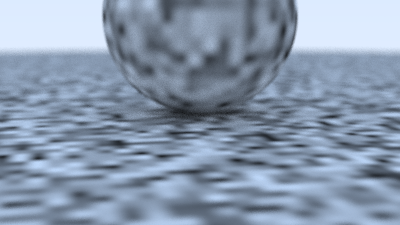
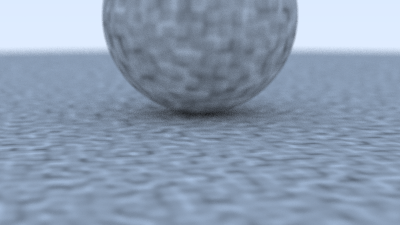
Perlin noise

diff --git a/src/perlin.rs b/src/perlin.rs
@@ -1,10 +1,10 @@
 use rand::Rng;
 use rand::seq::SliceRandom;
-use crate::vec3::Point3;
+use crate::vec3::{dot, random_unit, Point3, Vec3};
 
 const POINT_COUNT : usize = 256;
 pub struct Perlin {
-    floats : [f64; POINT_COUNT],
+    vectors : [Vec3; POINT_COUNT],
     x_permute : [u16; POINT_COUNT],
     y_permute : [u16; POINT_COUNT],
     z_permute : [u16; POINT_COUNT]
@@ -23,19 +23,22 @@ where R : Rng {
 fn split_index(val : f64) -> (usize, usize, f64) {
     let fint = val.floor();
     let rem = val - fint;
-    let int = (fint as i64);
+    let int = fint as i64;
     ((int as usize) & (POINT_COUNT - 1), ((int+1) as usize) & (POINT_COUNT - 1), rem)
 }
 
-fn trilinear_interp(verts : &[f64; 8], x : f64, y : f64, z : f64) -> f64 {
-    x * y * z * verts[0] +
-        x * y * (1.0-z) * verts[1] +
-        x * (1.0-y) * z * verts[2] +
-        x * (1.0-y) * (1.0-z) * verts[3] +
-        (1.0-x) * y * z * verts[4] +
-        (1.0-x) * y * (1.0-z) * verts[5] +
-        (1.0-x) * (1.0-y) * z * verts[6] +
-        (1.0-x) * (1.0-y) * (1.0-z) * verts[7]
+fn perlin_interp(verts : &[Vec3; 8], x : f64, y : f64, z : f64) -> f64 {
+    let xx = x*x*(3.0-2.0*x);
+    let yy = y*y*(3.0-2.0*y);
+    let zz = z*z*(3.0-2.0*z);
+    xx * yy * zz * dot(&verts[0], &Vec3::new(x-1.0,y-1.0,z-1.0)) +
+        xx * yy * (1.0-zz) * dot(&verts[1], &Vec3::new(x-1.0,y-1.0,z)) +
+        xx * (1.0-yy) * zz * dot(&verts[2], &Vec3::new(x-1.0,y,z-1.0)) +
+        xx * (1.0-yy) * (1.0-zz) * dot(&verts[3], &Vec3::new(x-1.0,y,z)) +
+        (1.0-xx) * yy * zz * dot(&verts[4], &Vec3::new(x,y-1.0,z-1.0)) +
+        (1.0-xx) * yy * (1.0-zz) * dot(&verts[5], &Vec3::new(x,y-1.0,z)) +
+        (1.0-xx) * (1.0-yy) * zz * dot(&verts[6], &Vec3::new(x,y,z-1.0)) +
+        (1.0-xx) * (1.0-yy) * (1.0-zz) * dot(&verts[7], &Vec3::new(x,y,z))
 }
 
 
@@ -43,16 +46,16 @@ impl Perlin {
     pub fn new<R>(rng : &mut R) -> Perlin
     where R : Rng
     {
-        let mut floats : [f64; POINT_COUNT] = [0.0; POINT_COUNT];
-        floats.iter_mut().for_each(
-            |val| *val = rng.gen::<f64>()
+        let mut vectors : [Vec3; POINT_COUNT] = [Vec3::zero(); POINT_COUNT];
+        vectors.iter_mut().for_each(
+            |val| *val = random_unit(rng)
         );
         let x_permute = make_permute(rng);
         let y_permute = make_permute(rng);
         let z_permute = make_permute(rng);
 
         Perlin {
-            floats,
+            vectors,
             x_permute,
             y_permute,
             z_permute
@@ -66,21 +69,22 @@ impl Perlin {
         let u = x_rem*x_rem*(3.0-2.0*x_rem);
         let v = y_rem*y_rem*(3.0-2.0*y_rem);
         let w = z_rem*z_rem*(3.0-2.0*z_rem);
-        let vals = [
-            self.coord(x_max, y_max, z_max),
-            self.coord(x_max, y_max, z_min),
-            self.coord(x_max, y_min, z_max),
-            self.coord(x_max, y_min, z_min),
-            self.coord(x_min, y_max, z_max),
-            self.coord(x_min, y_max, z_min),
-            self.coord(x_min, y_min, z_max),
-            self.coord(x_min, y_min, z_min)
+        let vecs = [
+            self.vector(x_max, y_max, z_max),
+            self.vector(x_max, y_max, z_min),
+            self.vector(x_max, y_min, z_max),
+            self.vector(x_max, y_min, z_min),
+            self.vector(x_min, y_max, z_max),
+            self.vector(x_min, y_max, z_min),
+            self.vector(x_min, y_min, z_max),
+            self.vector(x_min, y_min, z_min)
         ];
-        trilinear_interp(&vals, u, v, w)
+        let noise = perlin_interp(&vecs, u, v, w);
+        0.5 * (noise + 1.0)
     }
 
-    fn coord(&self, i : usize, j : usize, k : usize) -> f64 {
+    fn vector(&self, i : usize, j : usize, k : usize) -> Vec3 {
         let index = self.x_permute[i] ^ self.y_permute[j] ^ self.z_permute[k];
-        self.floats[index as usize]
+        self.vectors[index as usize]
     }
 }
